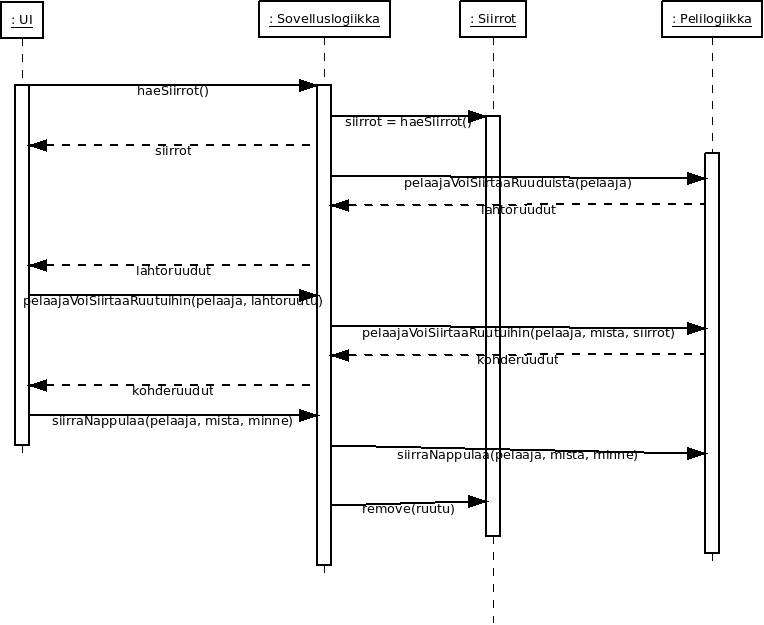
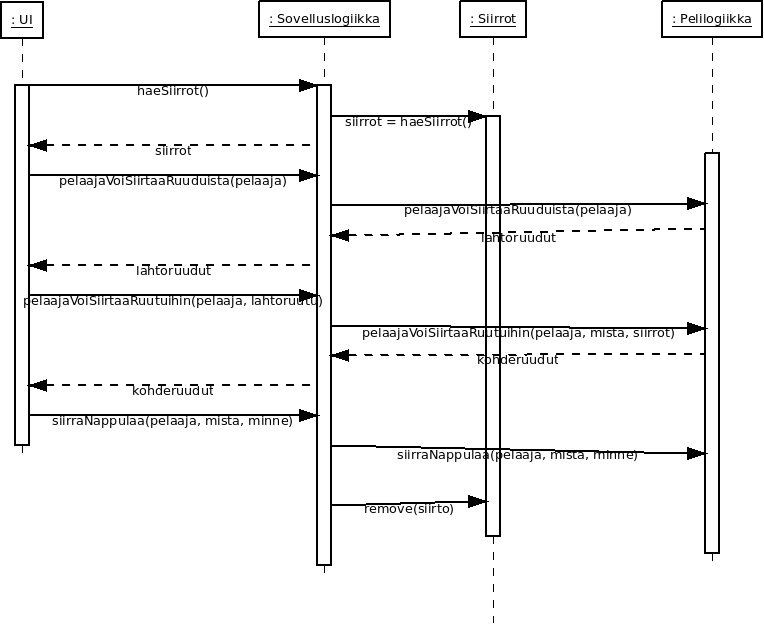
bugfix ja päivitys

diff --git a/doc/aihe.md b/doc/aihe.md
@@ -31,10 +31,10 @@ Peli loppuu kun toinen pelaaja on siirtänyt kaikki omat nappulansa ulos laudalt
 
 ## Sekvenssikaaviot
 
-![Sekvenssikaavio](https://github.com/qzuw/tavla/blob/master/doc/siirto-sekvenssik.png)
+![Sekvenssikaavio siirto](https://github.com/qzuw/tavla/blob/master/doc/siirto-sekvenssik.png)
 
-Ensimmäinen sekvenssikaavio kuvaa käyttöliittymän ja eri logiikoiden (aiottua) vuorovaikutusta. (Koodi ei siis tällä hetkellä täysin vastaa tätä, vaan käyttöliittymässä on hieman toimintalogiikkaa joka kuuluisi sovelluslogiikkaan.)
+Ensimmäinen sekvenssikaavio kuvaa käyttöliittymän ja eri logiikoiden vuorovaikutusta.
 
-![Sekvenssikaavio](https://github.com/qzuw/tavla/blob/master/doc/heitaNopat-sekvenssik.png)
+![Sekvenssikaavio nopat](https://github.com/qzuw/tavla/blob/master/doc/heitaNopat-sekvenssik.png)
 
 Toinen sekvenssikaavio kuvaa noppien heittämistä. GetArvo()n paluuarvoa ei ole merkitty koska Siirrot ottaa sen talteen mutta ei tässä yhteydessä palauta sitä edelleen.
